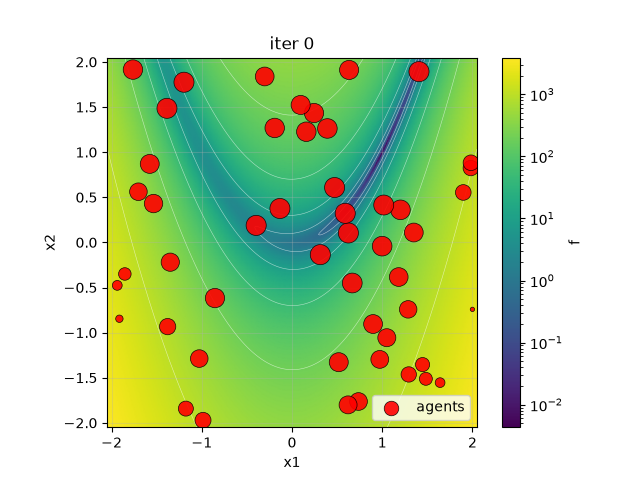
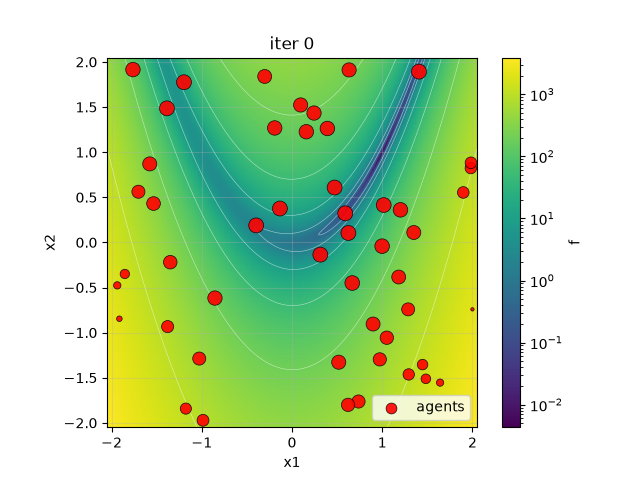
docs: refresh gallery from exports run + 3D row

diff --git a/README.md b/README.md
@@ -12,6 +12,10 @@ see [Visualize a run](#visualize-a-run)):
 |---|---|
 | <img src="docs/images/contour_first.png" width="400" alt="first"> | <img src="docs/images/contour_last.png" width="400" alt="last"> |
 
+| 3D surface + agents | Best-path trail animation |
+|---|---|
+| <img src="docs/images/surface_3d.png" width="400" alt="surface"> | <img src="docs/images/anim3d.gif" width="400" alt="3d animation"> |
+
 ## Build
 
 Requires [CMake](https://cmake.org) (3.20+) and [Conan 2](https://conan.io).
